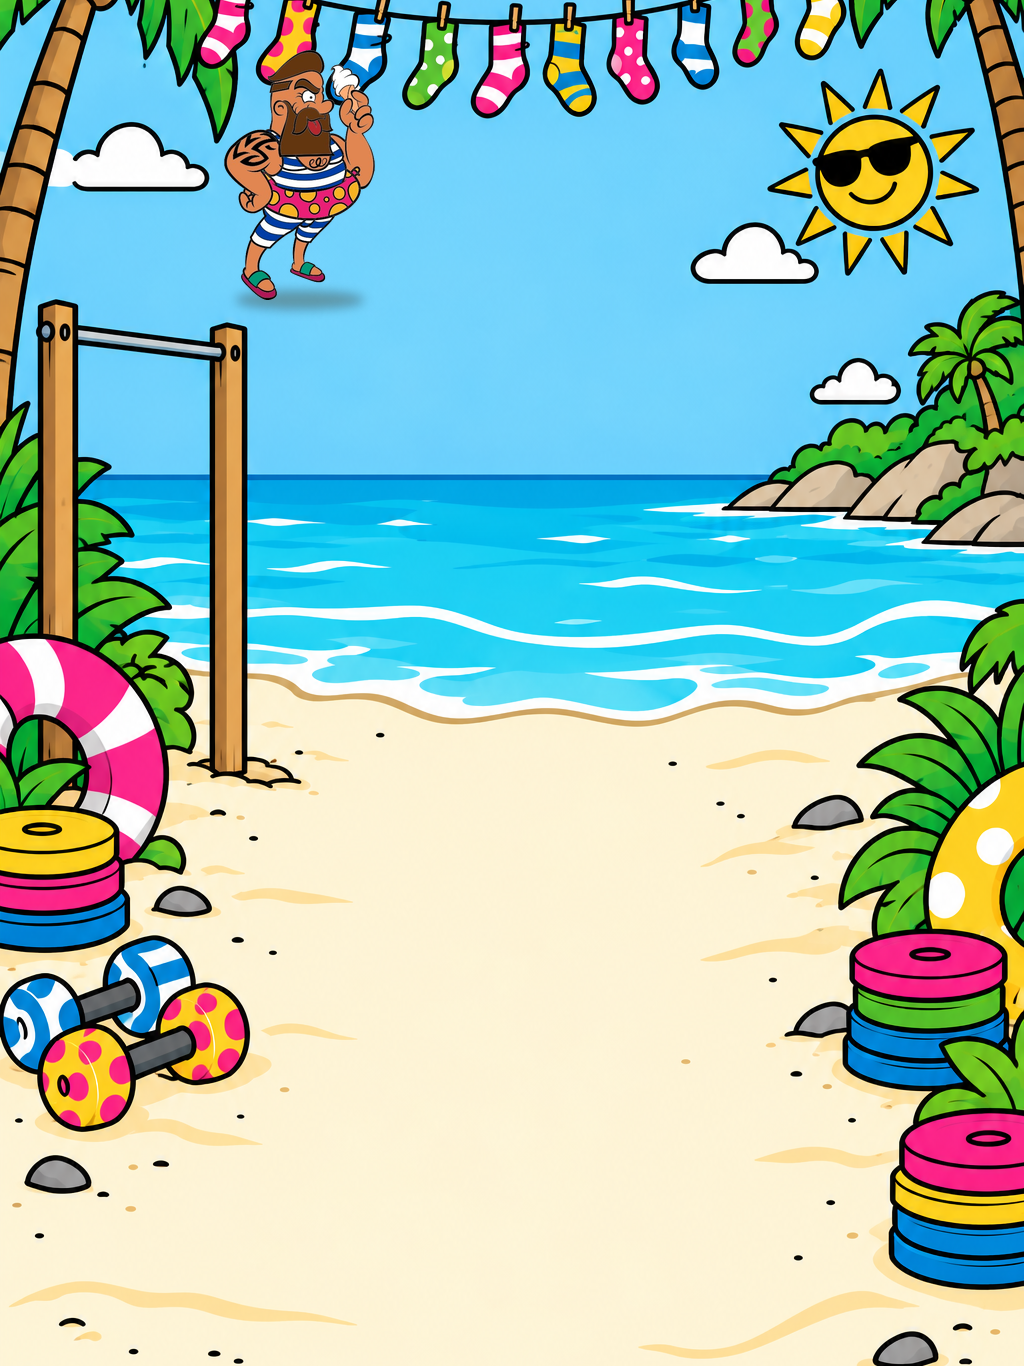
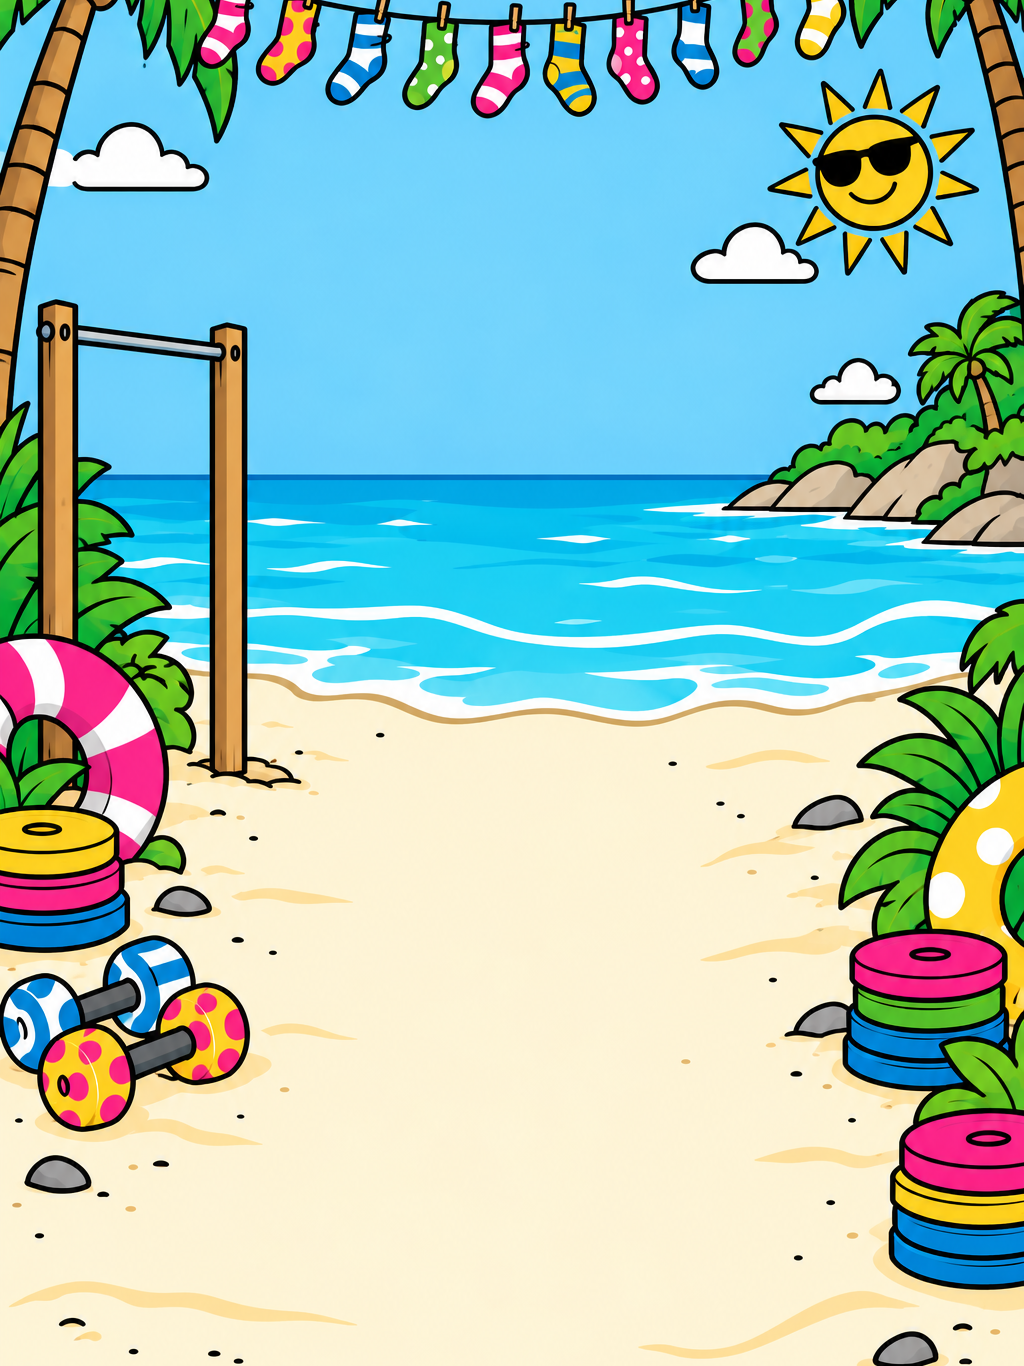
Shurda Plinko: switched on like every theme (the brand's owner agreed); the Shurda guy is a character in the game (his one picture), beside the board on a wide screen and, on a phone, on the board's top right corner (a theme may now set where its character stands on a phone and whether dust drifts o

Changed region(s): [[0.2188, 0.0307, 0.375, 0.246]]

diff --git a/game/src/game.ts b/game/src/game.ts
@@ -172,6 +172,8 @@ export class Game extends Container {
   /** a character beside the board (Pharaoh's Drop's pharaoh), or null */
   private readonly character: Character | null;
   private readonly characterHeight: number;
+  /** his spot on a phone (theme character.phone), or null: the top right corner */
+  private readonly characterPhone: { x: number; feet: number; height: number } | null;
   /** The theme's names: Reactor Drop's heavy is OVERCHARGE. */
   private readonly powerNames: Record<string, string>;
   private readonly heavyName: string;
@@ -315,6 +317,7 @@ export class Game extends Container {
     this.banner.onTick = () => sound('tick', { volume: 0.6 });
     const c = theme.character;
     this.characterHeight = c?.height ?? 0.76;
+    this.characterPhone = c?.phone ?? null;
     this.character = c ? new Character({ body: tex(c.body), head: tex(c.head), arm: tex(c.arm), eyes: tex(c.eyes),
       cheer: tex(c.cheer), point: tex(c.point) }, c) : null;
     this.table.addChild(this.ambient, this.vents, ...(this.character ? [this.character] : []), this.board, this.ticker, this.wheel,
@@ -493,8 +496,15 @@ export class Game extends Container {
       const visibleW = view.stageW - 2 * view.offsetX;
       if (this.character) {
         if (view.landscape) this.character.place(view.offsetX + visibleW * 0.885, view.offsetY + visibleH * 0.95, visibleH * this.characterHeight);
-        // a phone: in the top right corner, beside the pyramid's slope, his lower half behind the board
+        // a phone: where the theme puts him, in front of the board; or in the top right corner, beside the pyramid's
+        // slope, his lower half behind the board
+        else if (this.characterPhone) this.character.place(view.offsetX + visibleW * this.characterPhone.x, view.offsetY + visibleH * this.characterPhone.feet,
+          visibleH * this.characterPhone.height);
         else this.character.place(view.offsetX + visibleW * 0.86, view.offsetY + visibleH * 0.5, visibleH * 0.42);
+        // (behind the board, or in front of it)
+        const front = !view.landscape && !!this.characterPhone;
+        this.table.removeChild(this.character);
+        this.table.addChildAt(this.character, this.table.getChildIndex(this.board) + (front ? 1 : 0));
       }
       // with its own control bar: the board above it, without its console strip
       const barH = this.consoleBar && view.landscape ? this.barBox(view).height + 16 : 0;

diff --git a/game/src/theme.ts b/game/src/theme.ts
@@ -145,6 +145,11 @@ export interface CharacterArt {
   swing: number; swingSpeed: number;
   /** how tall beside the board, as a share of the screen's height (a wide character smaller) */
   height: number;
+  /** gold dust drifting off the top of the arm's picture (the pharaoh's staff); false: none */
+  dust: boolean;
+  /** where he stands on a phone (shares of the screen: his middle across, his feet down, his height), in front of the
+   *  board; null: the top right corner, his lower half behind the board */
+  phone: { x: number; feet: number; height: number } | null;
 }
 export interface Theme {
   id: string;
@@ -303,6 +308,12 @@ function readGacha(json: unknown, style: unknown): GachaArt | null {
   return { machine, crank, open, burst, capsules, tokens, socket, socketRadius, chute, pivot, plateRadius };
 }
 
+/** A character's spot on a phone: [x, feet, height], shares of the screen; null if not given. */
+function phoneSpot(v: unknown): { x: number; feet: number; height: number } | null {
+  if (!Array.isArray(v) || v.length !== 3 || !v.every(n => typeof n === 'number' && n > 0 && n < 1)) return null;
+  return { x: v[0], feet: v[1], height: v[2] };
+}
+
 function readCharacter(json: unknown): CharacterArt | null {
   const c = (json ?? null) as Record<string, unknown> | null;
   if (!c) return null;
@@ -318,7 +329,8 @@ function readCharacter(json: unknown): CharacterArt | null {
   const swing = typeof c.swing === 'number' && c.swing >= 0 && c.swing < 1 ? c.swing : 0.018;
   const swingSpeed = typeof c.swingSpeed === 'number' && c.swingSpeed > 0 && c.swingSpeed < 20 ? c.swingSpeed : 0.8;
   const height = typeof c.height === 'number' && c.height > 0.3 && c.height < 1 ? c.height : 0.78;
-  return { body, head, arm, eyes, cheer, point, cheerScale: scale, neck, shoulder, feet, swing, swingSpeed, height };
+  return { body, head, arm, eyes, cheer, point, cheerScale: scale, neck, shoulder, feet, swing, swingSpeed, height, dust: c.dust !== false,
+    phone: phoneSpot(c.phone) };
 }
 
 function readTesla(json: unknown, style: unknown): TeslaArt | null {

diff --git a/game/src/character.ts b/game/src/character.ts
@@ -80,7 +80,7 @@ export class Character extends Container {
     this.arm.rotation = this.spec.swing * Math.sin(t * this.spec.swingSpeed);
     this.eyes.alpha = watching ? 0.85 + 0.15 * Math.sin(t * 6) : 0.45 + 0.4 * Math.max(0, Math.sin(t * 0.9));
     this.dustIn -= dt;
-    if (this.dustIn <= 0 && this.idle.visible) {
+    if (this.spec.dust && this.dustIn <= 0 && this.idle.visible) {
       this.dustIn = 0.25 + Math.random() * 0.5;
       this.mote();
     }

diff --git a/backend/src/test/java/com/plinko/bo/settings/ThemeServiceTest.java b/backend/src/test/java/com/plinko/bo/settings/ThemeServiceTest.java
@@ -10,8 +10,7 @@ import java.util.Map;
 import org.junit.jupiter.api.Test;
 
 /** Which themes are on and which is the default (Plinko Mega ships Bombs Away, the default, Reactor Drop, Lagoon
- * Drop, Pharaoh's Drop, Zombie War, Neon Nights and Candy Factory; Shurda Plinko, a brand theme, starts
- * switched off). */
+ * Drop, Pharaoh's Drop, Zombie War, Neon Nights, Candy Factory and Shurda Plinko). */
 class ThemeServiceTest {
 
     private static ThemeService with(Map<String, String> values) {
@@ -23,7 +22,7 @@ class ThemeServiceTest {
     @Test
     void aFreshInstallHasEveryThemeOnAndPlaysBombsAway() {
         ThemeService.Themes themes = with(Map.of()).current();
-        assertThat(themes.enabled()).containsExactly("bombs-away", "reactor-drop", "lagoon-drop", "pharaoh-drop", "zombie-war", "neon-nights", "candy-factory");
+        assertThat(themes.enabled()).containsExactly("bombs-away", "reactor-drop", "lagoon-drop", "pharaoh-drop", "zombie-war", "neon-nights", "candy-factory", "shurda-plinko");
         assertThat(themes.defaultTheme()).isEqualTo("bombs-away");
         assertThat(with(Map.of()).resolve("old-theme")).isEqualTo("bombs-away");
     }
@@ -32,7 +31,7 @@ class ThemeServiceTest {
     void namesThatAreNotThemesAreIgnored() {
         ThemeService.Themes themes = with(Map.of("game.themes", "old-theme,bombs-away", "game.theme.default", "old-theme")).current();
         // the themes newer than that choice come on too
-        assertThat(themes.enabled()).containsExactly("bombs-away", "reactor-drop", "lagoon-drop", "pharaoh-drop", "zombie-war", "neon-nights", "candy-factory");
+        assertThat(themes.enabled()).containsExactly("bombs-away", "reactor-drop", "lagoon-drop", "pharaoh-drop", "zombie-war", "neon-nights", "candy-factory", "shurda-plinko");
         assertThat(themes.defaultTheme()).isEqualTo("bombs-away");
     }
 
@@ -43,15 +42,5 @@ class ThemeServiceTest {
         assertThat(themes.validate(List.of("old-theme"), "old-theme")).containsExactly("Unknown theme");
         assertThat(themes.validate(List.of("bombs-away"), "bombs-away")).isEmpty();
         assertThat(themes.validate(List.of("bombs-away", "reactor-drop"), "reactor-drop")).isEmpty();
-    }
-
-    @Test
-    void aBrandThemeStartsOffUntilAnAdminSwitchesItOn() {
-        assertThat(with(Map.of()).current().enabled()).doesNotContain("shurda-plinko");
-        assertThat(with(Map.of()).resolve("shurda-plinko")).isEqualTo("bombs-away");
-        // a choice saved before it existed does not switch it on
-        assertThat(with(Map.of("game.themes", "bombs-away", "game.themes.known", "bombs-away")).current().enabled()).doesNotContain("shurda-plinko");
-        assertThat(with(Map.of("game.themes", "bombs-away,shurda-plinko", "game.themes.known", "bombs-away,shurda-plinko")).current().enabled())
-                .contains("shurda-plinko");
     }
 }

diff --git a/backend/src/main/java/com/plinko/bo/settings/ThemeService.java b/backend/src/main/java/com/plinko/bo/settings/ThemeService.java
@@ -29,12 +29,6 @@ public class ThemeService {
         KNOWN.put("shurda-plinko", "Shurda Plinko");
     }
 
-    /**
-     * Themes that start switched off, even on a fresh install or when they first appear: brand themes, shown only once
-     * the brand's owner has agreed (Shurda Plinko uses Shurdalife's logo and character). An admin switches them on.
-     */
-    public static final List<String> STARTS_OFF = List.of("shurda-plinko");
-
     public record Themes(List<String> enabled, String defaultTheme) {
     }
 
@@ -54,12 +48,12 @@ public class ThemeService {
         String stored = values.get("game.themes");
         List<String> enabled;
         if (stored == null) {
-            enabled = KNOWN.keySet().stream().filter(id -> !STARTS_OFF.contains(id)).toList();
+            enabled = List.copyOf(KNOWN.keySet());
         } else {
             List<String> on = names(stored);
             String known = values.get("game.themes.known");
             List<String> seen = known == null ? on : names(known);
-            enabled = KNOWN.keySet().stream().filter(id -> on.contains(id) || (!seen.contains(id) && !STARTS_OFF.contains(id))).toList();
+            enabled = KNOWN.keySet().stream().filter(id -> on.contains(id) || !seen.contains(id)).toList();
         }
         if (enabled.isEmpty()) {
             enabled = List.of("bombs-away");
